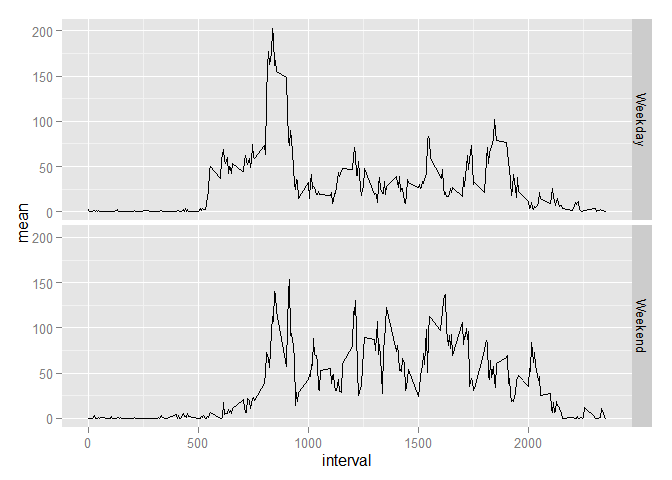
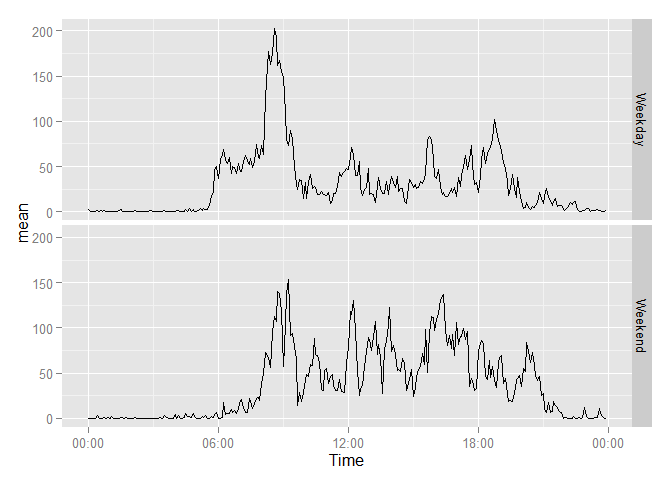
PA1_template_v2

diff --git a/PA1_template.html b/PA1_template.html
@@ -59,7 +59,10 @@ if (window.hljs && document.readyState && document.readyState === "complete") {
 <h2>Loading and preprocessing the data</h2>
 <pre class="r"><code>download.file(&quot;http://d396qusza40orc.cloudfront.net/repdata/data/activity.zip&quot;, &quot;activity.zip&quot;)
 unzip(&quot;activity.zip&quot;, exdir = &quot;activity&quot;)
-activity&lt;-read.csv(&quot;activity/activity.csv&quot;)</code></pre>
+activity&lt;-read.csv(&quot;activity/activity.csv&quot;)
+
+temp2 &lt;- mapply(function(x, y) paste0(rep(x, y), collapse = &quot;&quot;), 0, 4 - nchar(activity$interval))
+activity$interval &lt;- paste0(temp2, activity$interval)</code></pre>
 </div>
 <div id="what-is-mean-total-number-of-steps-taken-per-day" class="section level2">
 <h2>What is mean total number of steps taken per day?</h2>
@@ -79,21 +82,26 @@ steps_mean</code></pre>
 <pre><code>## [1] 37.3826</code></pre>
 <pre class="r"><code>steps_median</code></pre>
 <pre><code>## [1] 0</code></pre>
+<p>```</p>
 </div>
 <div id="what-is-the-average-daily-activity-pattern" class="section level2">
 <h2>What is the average daily activity pattern?</h2>
+<pre class="r"><code>library(ggplot2)</code></pre>
+<pre><code>## Warning: package 'ggplot2' was built under R version 3.1.3</code></pre>
+<pre class="r"><code>library(reshape2)</code></pre>
+<pre><code>## Warning: package 'reshape2' was built under R version 3.1.3</code></pre>
+<pre class="r"><code>library(scales)</code></pre>
+<pre><code>## Warning: package 'scales' was built under R version 3.1.3</code></pre>
 <pre class="r"><code>steps_select2&lt;-subset(activity,select=c(interval,steps))
 steps_clean2&lt;-na.omit(steps_select2)
 steps_mean2&lt;-ddply(steps_clean2,&quot;interval&quot;, summarise, mean=mean(steps))
-plot(steps_mean2$interval,steps_mean2$mean,type=&quot;l&quot;,
-     main='Time series plot of steps taken by 5-minute interval',
-     xlab='5-minute interval',
-     ylab='No. of steps averaged across all days')</code></pre>
[1 lines of base64/hex data omitted]
+ggplot(steps_mean2,aes(x=strptime(interval, format=&quot;%H%M&quot;), y=mean, group=1))+geom_line()+scale_x_datetime(labels=date_format(&quot;%H:%M&quot;))+xlab(&quot;Time&quot;)</code></pre>
[1 lines of base64/hex data omitted]
 <pre class="r"><code>steps_max&lt;-subset(steps_mean2,mean==max(mean))
 steps_max</code></pre>
 <pre><code>##     interval     mean
-## 104      835 206.1698</code></pre>
+## 104     0835 206.1698</code></pre>
+<pre class="r"><code>#Time where the no. of steps taken is at max on average is at 8:35am.</code></pre>
 </div>
 <div id="imputing-missing-values" class="section level2">
 <h2>Imputing missing values</h2>
@@ -119,17 +127,14 @@ steps_mean_new</code></pre>
 </div>
 <div id="are-there-differences-in-activity-patterns-between-weekdays-and-weekends" class="section level2">
 <h2>Are there differences in activity patterns between weekdays and weekends?</h2>
-<pre class="r"><code>library(ggplot2)</code></pre>
-<pre><code>## Warning: package 'ggplot2' was built under R version 3.1.3</code></pre>
-<pre class="r"><code>library(reshape2)</code></pre>
-<pre><code>## Warning: package 'reshape2' was built under R version 3.1.3</code></pre>
 <pre class="r"><code>combined$days&lt;-weekdays(as.Date(combined$date))
 combined$days_label&lt;-ifelse(combined$days==&quot;Saturday&quot;|combined$days==&quot;Sunday&quot;,
                             &quot;Weekend&quot;,&quot;Weekday&quot;)
 steps_combined&lt;-ddply(combined,c(&quot;days_label&quot;,&quot;interval&quot;), summarise, mean=mean(new))
-lc&lt;-ggplot(steps_combined,aes(x=interval, y=mean, group=1))+geom_line()
+lc&lt;-ggplot(steps_combined,aes(x=strptime(interval, format=&quot;%H%M&quot;), y=mean, group=1))+geom_line()+scale_x_datetime(labels=date_format(&quot;%H:%M&quot;))+xlab(&quot;Time&quot;)
+
 lc+facet_grid(days_label~.)</code></pre>
[2 lines of base64/hex data omitted]
 <pre class="r"><code>#Generally less steps were taken on weekend than on weekdays and steps taken on weekends do not vary as much as on weekedays.</code></pre>
 </div>
 

diff --git a/PA1_template.md b/PA1_template.md
@@ -8,6 +8,9 @@
 download.file("http://d396qusza40orc.cloudfront.net/repdata/data/activity.zip", "activity.zip")
 unzip("activity.zip", exdir = "activity")
 activity<-read.csv("activity/activity.csv")
+
+temp2 <- mapply(function(x, y) paste0(rep(x, y), collapse = ""), 0, 4 - nchar(activity$interval))
+activity$interval <- paste0(temp2, activity$interval)
 ```
 
 ## What is mean total number of steps taken per day?
@@ -45,17 +48,40 @@ steps_median
 ## [1] 0
 ```
 
+```
+
 ## What is the average daily activity pattern?
 
+
+```r
+library(ggplot2)
+```
+
+```
+## Warning: package 'ggplot2' was built under R version 3.1.3
+```
+
+```r
+library(reshape2)
+```
+
+```
+## Warning: package 'reshape2' was built under R version 3.1.3
+```
+
+```r
+library(scales)
+```
+
+```
+## Warning: package 'scales' was built under R version 3.1.3
+```
 
 ```r
 steps_select2<-subset(activity,select=c(interval,steps))
 steps_clean2<-na.omit(steps_select2)
 steps_mean2<-ddply(steps_clean2,"interval", summarise, mean=mean(steps))
-plot(steps_mean2$interval,steps_mean2$mean,type="l",
-     main='Time series plot of steps taken by 5-minute interval',
-     xlab='5-minute interval',
-     ylab='No. of steps averaged across all days')
+ggplot(steps_mean2,aes(x=strptime(interval, format="%H%M"), y=mean, group=1))+geom_line()+scale_x_datetime(labels=date_format("%H:%M"))+xlab("Time")
 ```
 
 ![](PA1_template_files/figure-html/unnamed-chunk-3-1.png) 
@@ -67,7 +93,11 @@ steps_max
 
 ```
 ##     interval     mean
-## 104      835 206.1698
+## 104     0835 206.1698
+```
+
+```r
+#Time where the no. of steps taken is at max on average is at 8:35am.
 ```
 
 
@@ -122,27 +152,12 @@ steps_median_new
 
 
 ```r
-library(ggplot2)
-```
-
-```
-## Warning: package 'ggplot2' was built under R version 3.1.3
-```
-
-```r
-library(reshape2)
-```
-
-```
-## Warning: package 'reshape2' was built under R version 3.1.3
-```
-
-```r
 combined$days<-weekdays(as.Date(combined$date))
 combined$days_label<-ifelse(combined$days=="Saturday"|combined$days=="Sunday",
                             "Weekend","Weekday")
 steps_combined<-ddply(combined,c("days_label","interval"), summarise, mean=mean(new))
-lc<-ggplot(steps_combined,aes(x=interval, y=mean, group=1))+geom_line()
+lc<-ggplot(steps_combined,aes(x=strptime(interval, format="%H%M"), y=mean, group=1))+geom_line()+scale_x_datetime(labels=date_format("%H:%M"))+xlab("Time")
+
 lc+facet_grid(days_label~.)
 ```
 
@@ -151,4 +166,5 @@ lc+facet_grid(days_label~.)
 ```r
 #Generally less steps were taken on weekend than on weekdays and steps taken on weekends do not vary as much as on weekedays.
 ```
+
 
